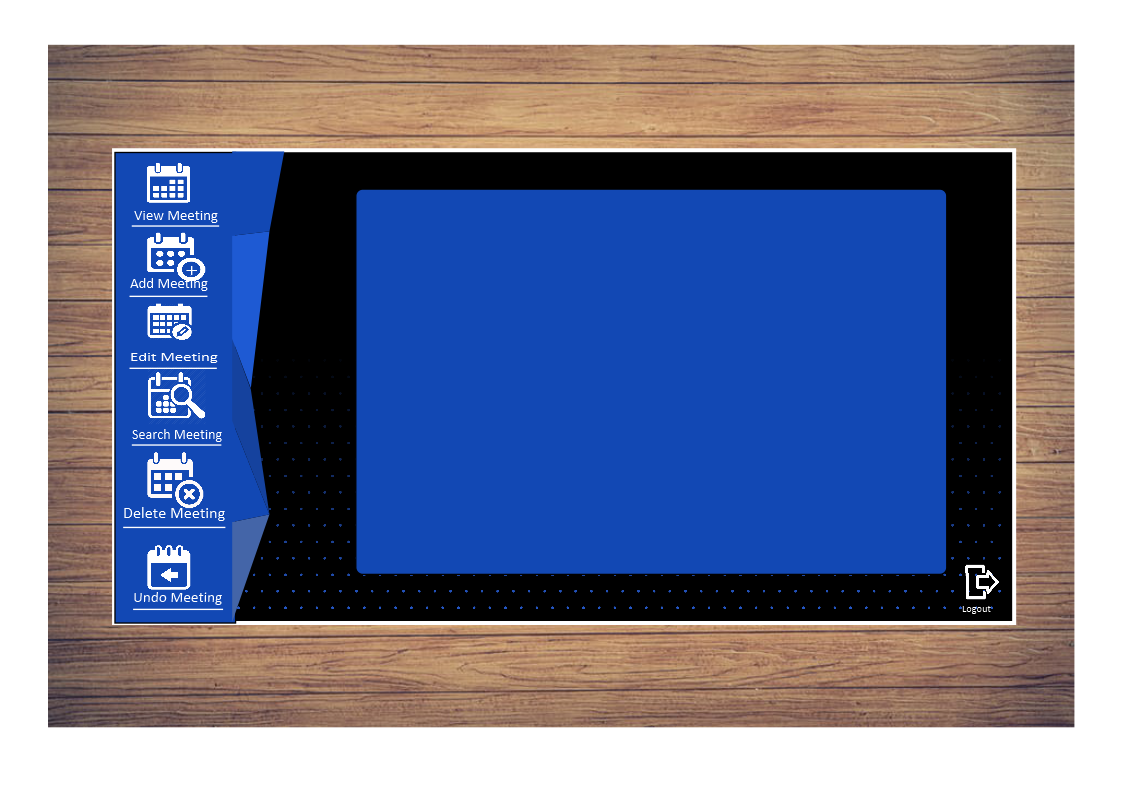
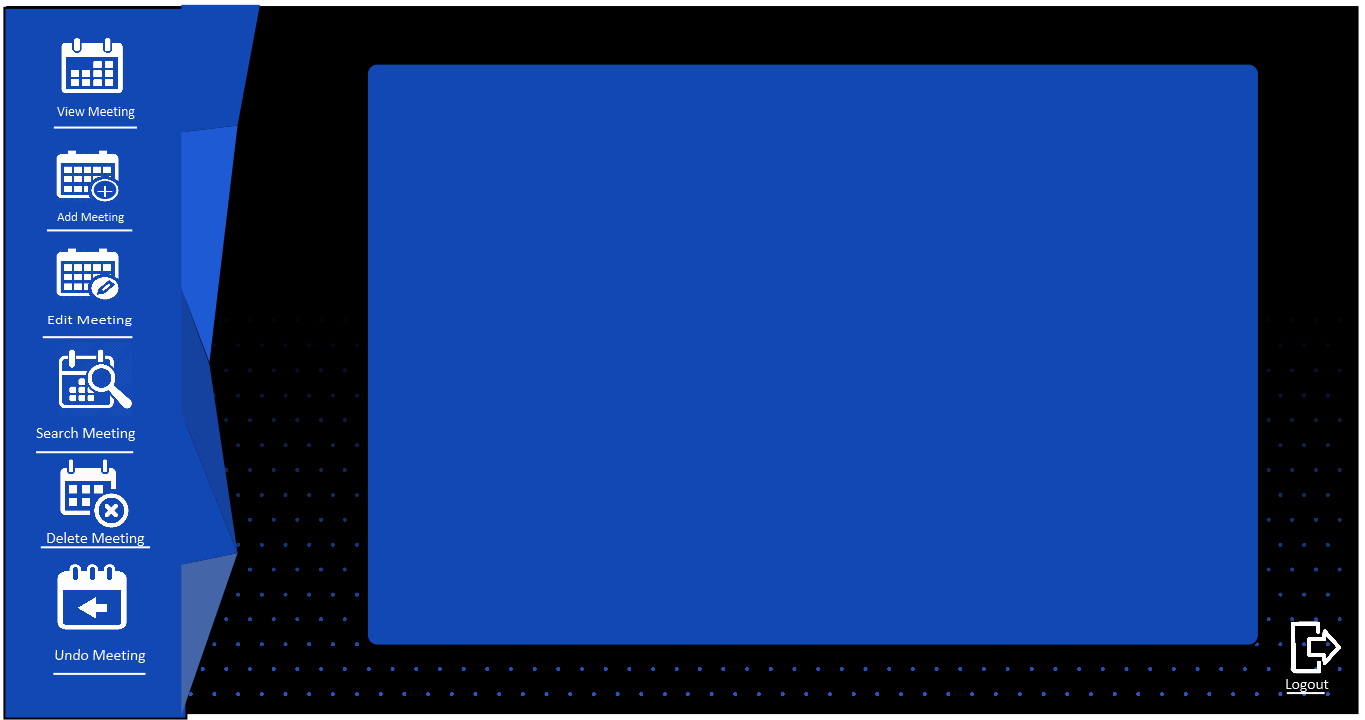
linked all the signup and menu frame

diff --git a/MeetingManger/src/GUI.java b/MeetingManger/src/GUI.java
@@ -19,9 +19,12 @@ import java.awt.Font;
 public class GUI {
 
 	private JFrame frame;
+	private JFrame signUpFrame;
+	private JFrame menuFrame;
 	private JTextField userName;
+	private JTextField newUserName;
 	private JTextField password;
-	
+	private JTextField newPassword;
 	
 	
 	/**
@@ -44,14 +47,20 @@ public class GUI {
 	 * Create the application.
 	 */
 	public GUI() {
+		
 		initialize();
+		signUp();
+		menu();
+		
 		
 	}
+
 
 	/**
 	 * Initialize the contents of the frame.
 	 */
-	private void initialize() {
+	public void initialize() {
+		
 		String Username;
 	    String Password;
 
@@ -59,16 +68,19 @@ public class GUI {
 	    Username = "admin";
 		
 		
+	    
 		frame = new JFrame("Login");
 		frame.setBounds(100, 100, 1035, 647);
 		frame.setDefaultCloseOperation(JFrame.EXIT_ON_CLOSE);
+		frame.setResizable(false);
+		frame.setSize(1365,720);
 		frame.getContentPane().setLayout(null);
 		
 		//User Name text box
 		userName = new JTextField();
 		userName.setBackground(Color.WHITE);
 		userName.setForeground(Color.BLACK);
-		userName.setBounds(420, 222, 176, 22);
+		userName.setBounds(575, 240, 215, 22);
 		frame.getContentPane().add(userName);
 		userName.setColumns(10);
 		
@@ -77,13 +89,13 @@ public class GUI {
 		password.setForeground(Color.BLACK);
 		password.setColumns(10);
 		password.setBackground(Color.WHITE);		
-		password.setBounds(420, 275, 176, 22);
+		password.setBounds(575, 323, 215, 22);
 		frame.getContentPane().add(password);
 		
 		JLabel lblInvalidUsernameOr = new JLabel("Invalid username or password");
 		lblInvalidUsernameOr.setFont(new Font("Tahoma", Font.PLAIN, 15));
 		lblInvalidUsernameOr.setForeground(Color.RED);
-		lblInvalidUsernameOr.setBounds(420, 156, 196, 16);
+		lblInvalidUsernameOr.setBounds(575, 157, 215, 16);
 		frame.getContentPane().add(lblInvalidUsernameOr);
 		lblInvalidUsernameOr.setVisible(false);
 		
@@ -93,17 +105,17 @@ public class GUI {
 		Border border = new LineBorder(Color.WHITE, 2);
 		login.setBorder(border);
 		login.setBackground(new Color(18, 72, 180));
-		login.setBounds(514, 331, 82, 25);
+		login.setBounds(708, 396, 82, 25);
 		frame.getContentPane().add(login);
 		
 		login.addActionListener(new ActionListener() {
 			public void actionPerformed(ActionEvent arg0) {
-				System.out.println(userName.getText());
-				System.out.print(password.getText());
-				
-
+	
 			    if (userName.getText().equals(Username) && password.getText().equals(Password)) {
 			        System.out.println("Access Granted! Welcome!");
+			        frame.setVisible(false);
+					signUpFrame.setVisible(false);
+					menuFrame.setVisible(true);
 			    } else if(login.getText().equals(Username)) {
 			    	lblInvalidUsernameOr.setVisible(true);		        
 			    } else if (password.getText().equals(Password)) {
@@ -120,14 +132,14 @@ public class GUI {
 		signUp.setForeground(Color.WHITE);		
 		signUp.setBorder(border);
 		signUp.setBackground(new Color(18, 72, 180));
-		signUp.setBounds(420, 331, 82, 25);
+		signUp.setBounds(575, 396, 82, 25);
 		frame.getContentPane().add(signUp);
 		signUp.addActionListener(new ActionListener() {
 			public void actionPerformed(ActionEvent arg0) {
-				System.out.println(userName.getText());
-				System.out.print(password.getText());
-				SignUp su = new SignUp();
-				su.setVisible(true);
+			frame.setVisible(false);
+			signUpFrame.setVisible(true);
+	
+			
 			}
 		});
 		//exit button
@@ -135,7 +147,7 @@ public class GUI {
 		exit.setForeground(Color.WHITE);		
 		exit.setBorder(border);
 		exit.setBackground(new Color(18, 72, 180));
-		exit.setBounds(466, 434, 82, 25);
+		exit.setBounds(654, 560, 82, 25);
 		frame.getContentPane().add(exit);
 		exit.addActionListener(new ActionListener() {
 			public void actionPerformed(ActionEvent arg0) {
@@ -153,7 +165,7 @@ public class GUI {
 		lblNewLabel.setForeground(Color.WHITE);
 		Image img = new ImageIcon(this.getClass().getResource("/login.png")).getImage();
 		lblNewLabel.setIcon(new ImageIcon(img));
-		lblNewLabel.setBounds(-47, 0, 1072, 600);
+		lblNewLabel.setBounds(0, 0, 1359, 685);
 		frame.getContentPane().add(lblNewLabel);
 		
 		
@@ -162,4 +174,117 @@ public class GUI {
 		
 		
 	}
+
+	
+	public void signUp() {
+		
+		signUpFrame = new JFrame("SignUp");
+		signUpFrame.setBounds(100, 100, 1035, 647);
+		signUpFrame.setDefaultCloseOperation(JFrame.EXIT_ON_CLOSE);
+		signUpFrame.setResizable(false);
+		signUpFrame.setSize(1365,720);
+		signUpFrame.getContentPane().setLayout(null);
+		
+		
+		//full name text box
+		JTextField fullName = new JTextField();
+		fullName.setBackground(Color.WHITE);
+		fullName.setForeground(Color.BLACK);
+		fullName.setBounds(580, 192, 176, 22);
+		signUpFrame.getContentPane().add(fullName);
+		fullName.setColumns(10);
+		
+		
+		//User Name text box
+		newUserName = new JTextField();
+		newUserName.setBackground(Color.WHITE);
+		newUserName.setForeground(Color.BLACK);
+		newUserName.setBounds(580, 265, 176, 22);
+		signUpFrame.getContentPane().add(newUserName);
+		newUserName.setColumns(10);
+		
+		//Password Text box	
+		newPassword = new JPasswordField();
+		newPassword.setForeground(Color.BLACK);
+		newPassword.setColumns(10);
+		newPassword.setBackground(Color.WHITE);		
+		newPassword.setBounds(580, 338, 176, 22);
+		signUpFrame.getContentPane().add(newPassword);
+		
+		//sign up button
+		JButton signUp = new JButton("Sign Up");
+		signUp.setForeground(Color.WHITE);	
+		Border border = new LineBorder(Color.WHITE, 2);
+		signUp.setBorder(border);
+		signUp.setBackground(new Color(18, 72, 180));
+		signUp.setBounds(674, 389, 82, 25);
+		signUpFrame.getContentPane().add(signUp);
+		signUp.addActionListener(new ActionListener() {
+			public void actionPerformed(ActionEvent arg0) {
+				System.out.println(newUserName.getText());
+				System.out.print(newPassword.getText());
+			}
+		});
+		//back button
+		JButton back = new JButton("Back");
+		back.setForeground(Color.WHITE);		
+		back.setBorder(border);
+		back.setBackground(new Color(18, 72, 180));
+		back.setBounds(580, 389, 82, 25);
+		signUpFrame.getContentPane().add(back);
+		back.addActionListener(new ActionListener() {
+				public void actionPerformed(ActionEvent arg0) {
+					frame.setVisible(true);
+					signUpFrame.setVisible(false);			
+						}
+					});
+		
+		//exit button
+		JButton exit = new JButton("Exit");
+		exit.setForeground(Color.WHITE);		
+		exit.setBorder(border);
+		exit.setBackground(new Color(18, 72, 180));
+		exit.setBounds(640, 562, 82, 25);
+		signUpFrame.getContentPane().add(exit);
+		exit.addActionListener(new ActionListener() {
+				public void actionPerformed(ActionEvent arg0) {
+					System.out.print("Exit");
+					System.exit(0);				
+				}
+			});
+		
+		//label to add background picture
+		JLabel signUpBackground = new JLabel("");
+		signUpBackground.setBackground(Color.WHITE);
+		signUpBackground.setForeground(Color.WHITE);
+		Image img = new ImageIcon(this.getClass().getResource("/signUp.png")).getImage();
+		signUpBackground.setIcon(new ImageIcon(img));
+		signUpBackground.setBounds(0, 0, 1359, 685);
+		signUpFrame.getContentPane().add(signUpBackground);
+	}
+	
+	public void menu() {
+		
+		menuFrame = new JFrame("Menu");
+		menuFrame.setBounds(100, 100, 1035, 647);
+		menuFrame.setDefaultCloseOperation(JFrame.EXIT_ON_CLOSE);
+		menuFrame.setResizable(false);
+		menuFrame.setSize(1365,720);
+		menuFrame.getContentPane().setLayout(null);
+		
+		
+		
+		//label to add background picture
+		JLabel menuBackground = new JLabel("");
+		menuBackground.setBackground(Color.WHITE);
+		menuBackground.setForeground(Color.WHITE);
+		Image img = new ImageIcon(this.getClass().getResource("/menu.png")).getImage();
+		menuBackground.setIcon(new ImageIcon(img));
+		menuBackground.setBounds(0, 0, 1359, 685);
+		menuFrame.getContentPane().add(menuBackground);		
+		
+		
+		
+	}
 }
+
